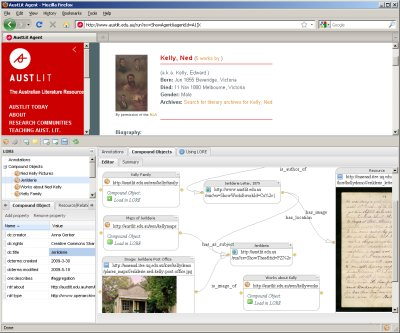
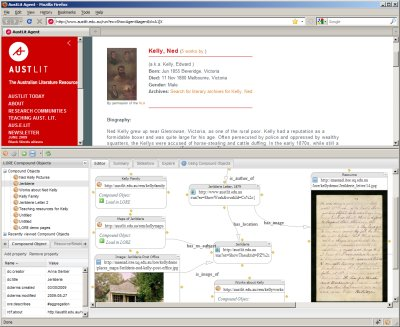
Make update context buttons smaller Also updated screenshot for user doc

diff --git a/oaiorebuilder/content/loreui.css b/oaiorebuilder/content/loreui.css
@@ -34,7 +34,6 @@
     background-image: url(../skin/icons/application_view_detail.png) !important;
     width: 15px
 }
-
 .horizontal-line {
 	width:100%; 
 	height:2px; 
@@ -60,6 +59,7 @@
 	background:#363636;
 	color:white;
 }
+
 .x-layout-split {
 	width: 3px;
 }
@@ -231,6 +231,11 @@
 .x-hide-label {padding:0;margin:0}
 #delannobtn .x-btn-center .x-btn-text {
 	color:red;
+}
+#updctxtbtn, #updrctxtbtn {
+    width:70px !important;
+    margin-left:auto;margin-right:13px;
+    margin-bottom:3px;margin-top:3px;
 }
 .x-combo-list, .x-combo-list-inner {min-width:200px;}
 

diff --git a/oaiorebuilder/content/annotations_view_init.js b/oaiorebuilder/content/annotations_view_init.js
@@ -485,11 +485,10 @@ loreuieditor = function (model ) {
 							labelStyle: 'font-size:90%'
 						},{
 							xtype:"button",
-							text: 'Update Selection',
+							text: 'Update Variant Selection',
 							fieldLabel: '',
 							id: 'updrctxtbtn',
 							hidden: true,
-							
 							tooltip: 'For Variation Annotations: set the context in the variant resource to be the current selection from the main browser window'
 						}, 
 						{
